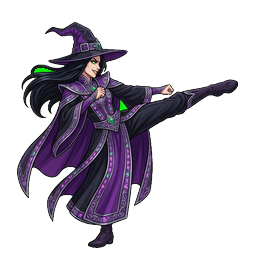
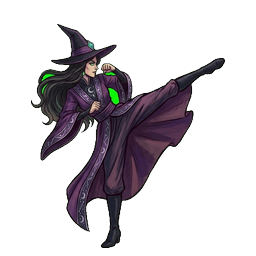
art: yeni sanat yonu ile yenilenen gorseller

diff --git a/sw.js b/sw.js
@@ -1,5 +1,5 @@
 // Çevrimdışı çalışma: kod ve sayfa önce ağdan (güncel sürüm), görseller önce önbellekten.
-const CACHE = 'hexling-v170';
+const CACHE = 'hexling-v171';
 const CORE = ['index.html', 'manifest.webmanifest', 'dist/main.js', 'dist/minis.js', 'dist/game.js', 'dist/data.js', 'dist/audio.js', 'dist/settings.js', 'dist/i18n.js', 'dist/scenery.js', 'dist/version.js', 'dist/billing.js', 'dist/ads.js', 'dist/fight.js', 'dist/hof.js', 'dist/house.js', 'dist/meta.js', 'dist/quests.js', 'dist/story.js', 'dist/tiger.js', 'dist/notify.js', 'dist/mine.js', 'dist/mine3d.js', 'vendor/three.min.js', 'assets/manifest.json', 'assets/title_bg.jpg', 'assets/arena_bg.jpg', 'icons/icon-192.png'];
 
 self.addEventListener('install', (e) => {
